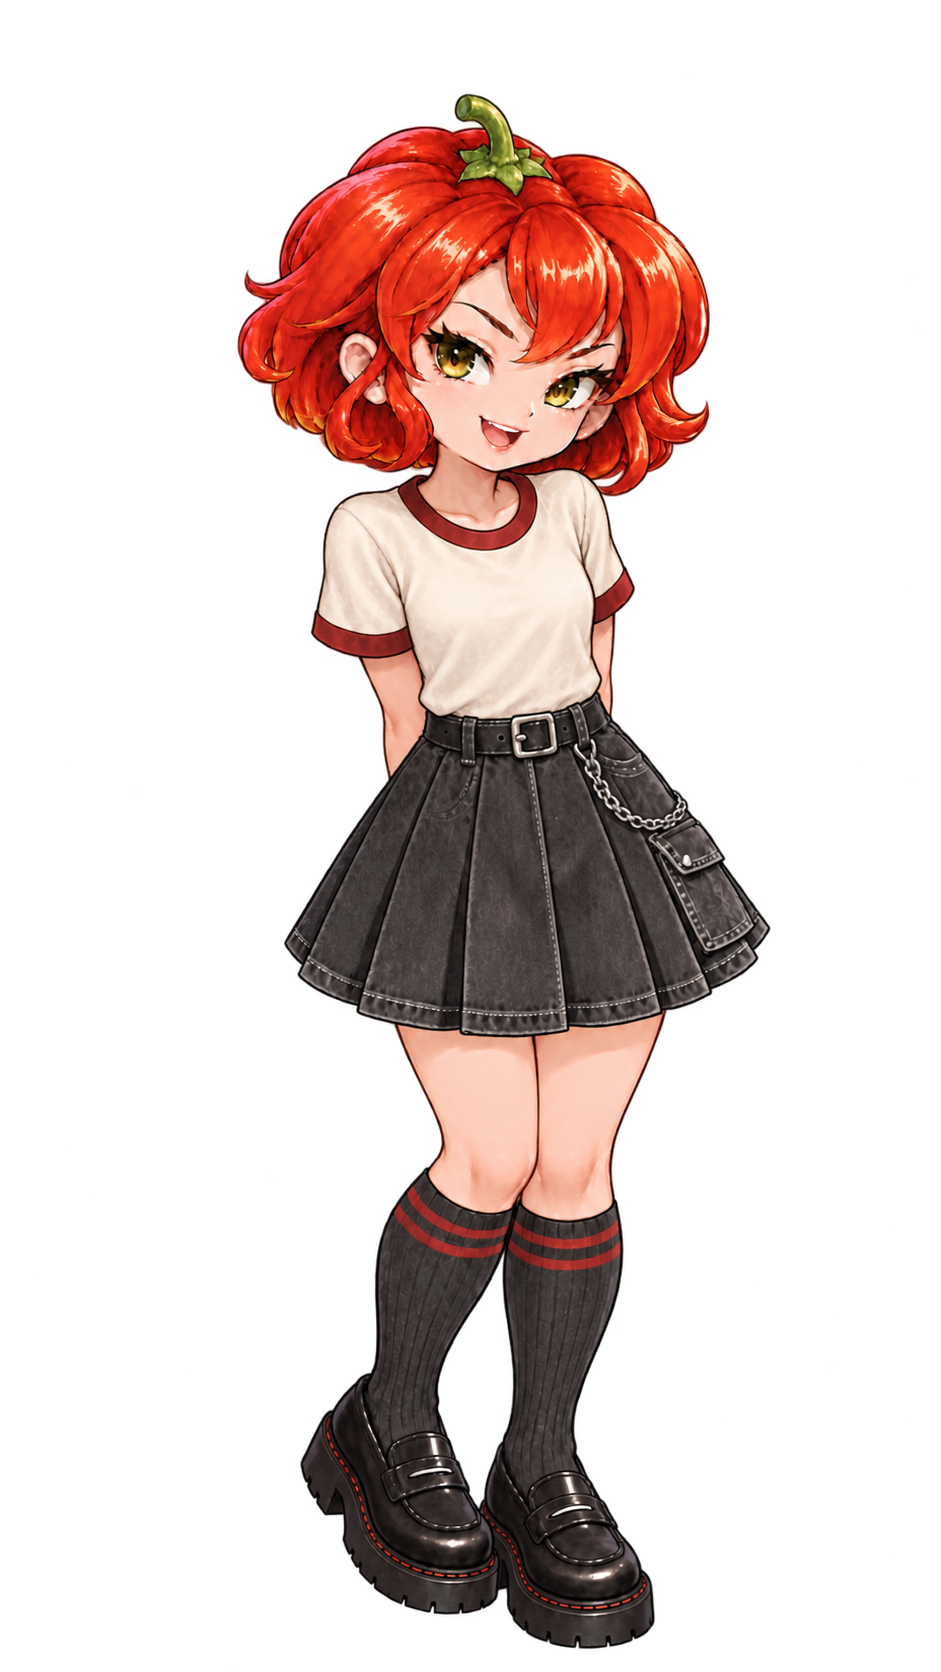
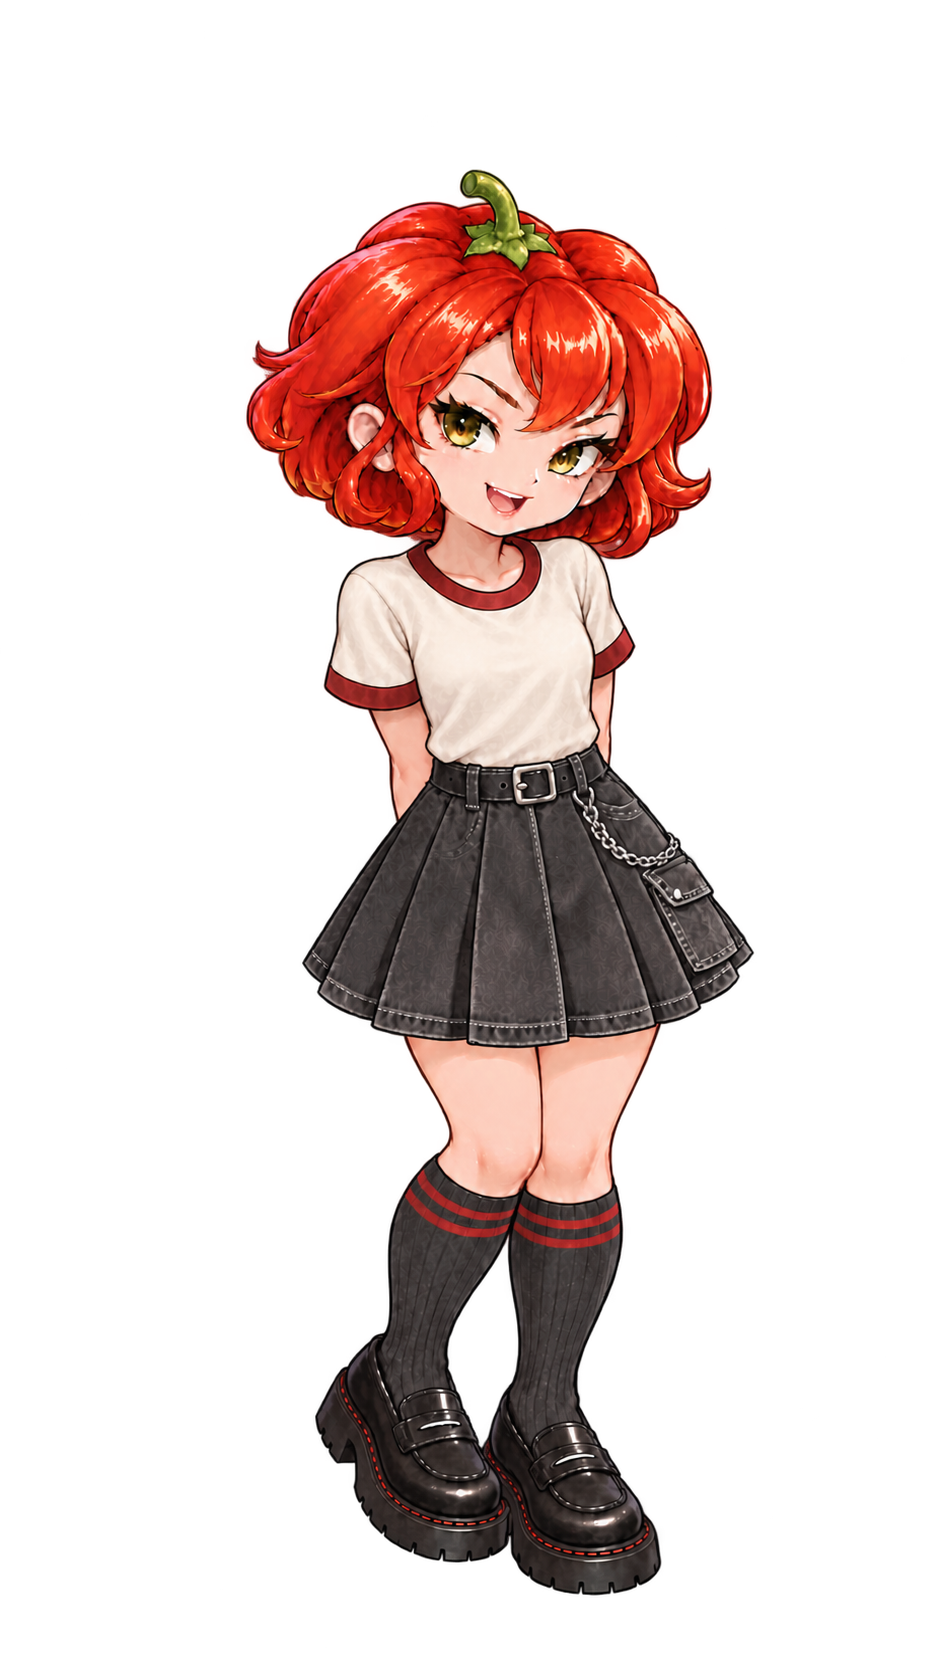
fix(assets): update user-provided paprika girl image

Changed region(s): [[0.2465, 0.0311, 0.8321, 0.9952]]

diff --git a/sw.js b/sw.js
@@ -1,6 +1,6 @@
 // sw.js
 
-const SITE_VERSION = '20261012-01';
+const SITE_VERSION = '20261012-02';
 
 const STATIC_CACHE = `mallin-static-${SITE_VERSION}`;
 const HTML_CACHE = `mallin-html-${SITE_VERSION}`;
